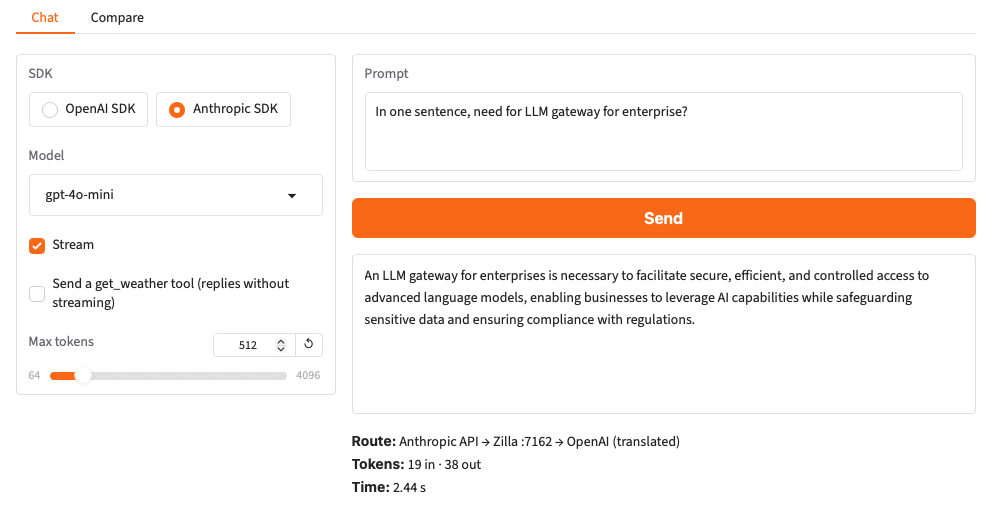
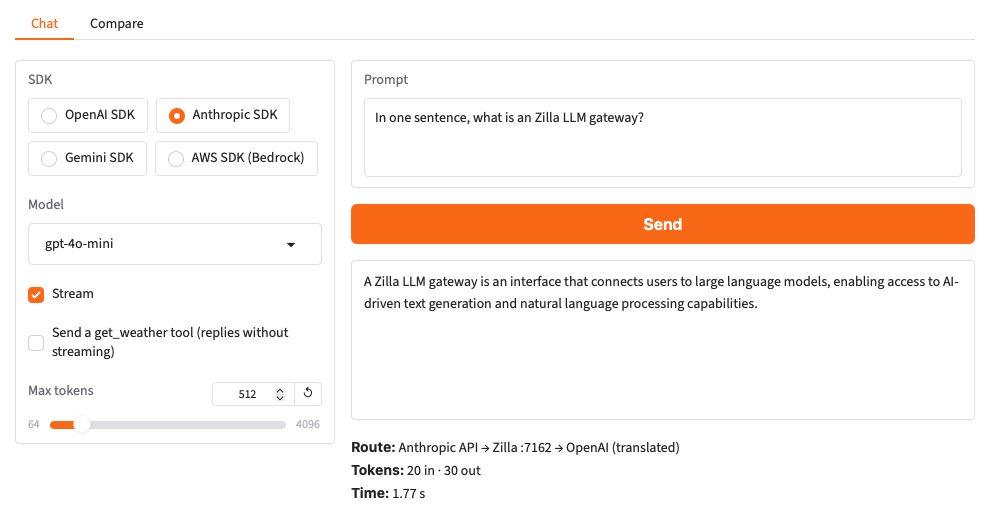
docs(llm.gateway): refresh screenshots and GIFs for the Gemini and AWS SDK demo

diff --git a/llm.gateway/README.md b/llm.gateway/README.md
@@ -81,6 +81,8 @@ Open the Gradio compare app at [http://localhost:7860](http://localhost:7860).
 
 4. **Gemini.** Pick the Gemini SDK and `gemini-3.5-flash-lite`, and the request reaches Gemini in its own API. With a `gpt-*` model, the Gemini SDK reaches OpenAI, and the reply comes back in Gemini format. The OpenAI and Anthropic SDKs can ask for a `gemini-*` model too, with your Gemini key.
 
+   <img src=".assets/gemini_sdk_to_gemini.png" alt="Gemini SDK to gemini-3.5-flash-lite, routed to Gemini with no translation" width="720">
+
 5. **Streaming.** Turn on Stream and repeat any step. Tokens arrive as the provider generates them, in the format of the SDK you picked.
 
 6. **Compare.** Open the Compare tab to send one prompt to a `gpt-*` and a `claude-*` model side by side through the same OpenAI SDK, with the route, token usage and time of each.
@@ -266,8 +268,6 @@ A request from the AWS SDK is signed for AWS rather than carrying a provider API
 
 In the Gradio app, pick the OpenAI SDK and a Bedrock model ID, such as `amazon.nova-micro-v1:0` or `us.anthropic.claude-haiku-4-5-20251001-v1:0`. Newer models are called through a cross-region inference profile ID, such as `us.anthropic.…`, which the `us.*` patterns route. The request goes to the same `7161` endpoint, and the reply comes back in OpenAI format, streamed or not.
 
-<img src=".assets/aws_bedrock.gif" alt="OpenAI SDK streaming a reply from amazon.nova-micro-v1:0 on AWS Bedrock through Zilla Plus" width="720">
-
 From the command line:
 
 ```bash
@@ -276,7 +276,11 @@ docker compose run --rm \
     llm-client
 ```
 
-To call Zilla with the AWS SDK, pick the AWS SDK (Bedrock) in the Gradio app. With a Bedrock model ID, the request goes to Bedrock. With `gpt-4o-mini`, `claude-haiku-4-5` or `gemini-3.5-flash-lite`, Zilla translates the Converse request to that provider's API, and the reply comes back in Bedrock format. `claude-primary` falls back to `claude-haiku-4-5`, and the Part 1 guardrails reject the same prompts. From the command line:
+To call Zilla with the AWS SDK, pick the AWS SDK (Bedrock) in the Gradio app. With a Bedrock model ID, the request goes to Bedrock. With `gpt-4o-mini`, `claude-haiku-4-5` or `gemini-3.5-flash-lite`, Zilla translates the Converse request to that provider's API, and the reply comes back in Bedrock format. `claude-primary` falls back to `claude-haiku-4-5`, and the Part 1 guardrails reject the same prompts.
+
+<img src=".assets/aws_bedrock.gif" alt="AWS SDK streaming a reply from amazon.nova-micro-v1:0 on AWS Bedrock through the Zilla Plus Bedrock API on port 7164" width="720">
+
+From the command line:
 
 ```bash
 docker compose run --rm \
